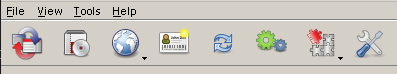
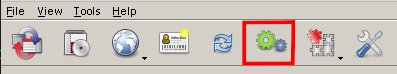
Improved post instructions visualization

Changed region(s): [[0.6045, 0.2703, 0.7557, 0.8919]]

diff --git a/post-install.md b/post-install.md
@@ -6,15 +6,12 @@ This document provides information on additional steps you may want to take afte
 
 1. Open Mod Organizer 2;
 2. Click on the cogwheel in the top bar to configure executables;
+![topbar executables config](screenshots/topbar_executables_config.png?raw=true "Executables Configuration")
 3. Click on the launcher in the list to the left;
 4. In the "Binary" text box, add an underscore before the name of the .exe file;
 	- eg.: "Z:\\home\\joe\\Games\\steam-library\\steamapps\\common\\Skyrim Special Edition\\\_SkyrimSELauncher.exe"
-5. Now you should be able to run the launcher by selecting it in the executables dropdown;
-
-Some screenshots to help with visualization:
-
-![topbar executables config](screenshots/topbar_executables_config.png?raw=true "Executables Configuration")
 ![executables list](screenshots/executables_config_leftside_list.png?raw=true "Executables List")
+5. Now you should be able to run the launcher by selecting it in the executables dropdown;
 ![executables dropdown](screenshots/executables_dropdown.png?raw=true "Executables Dropdown")
 
 ### Using alternative proton versions
